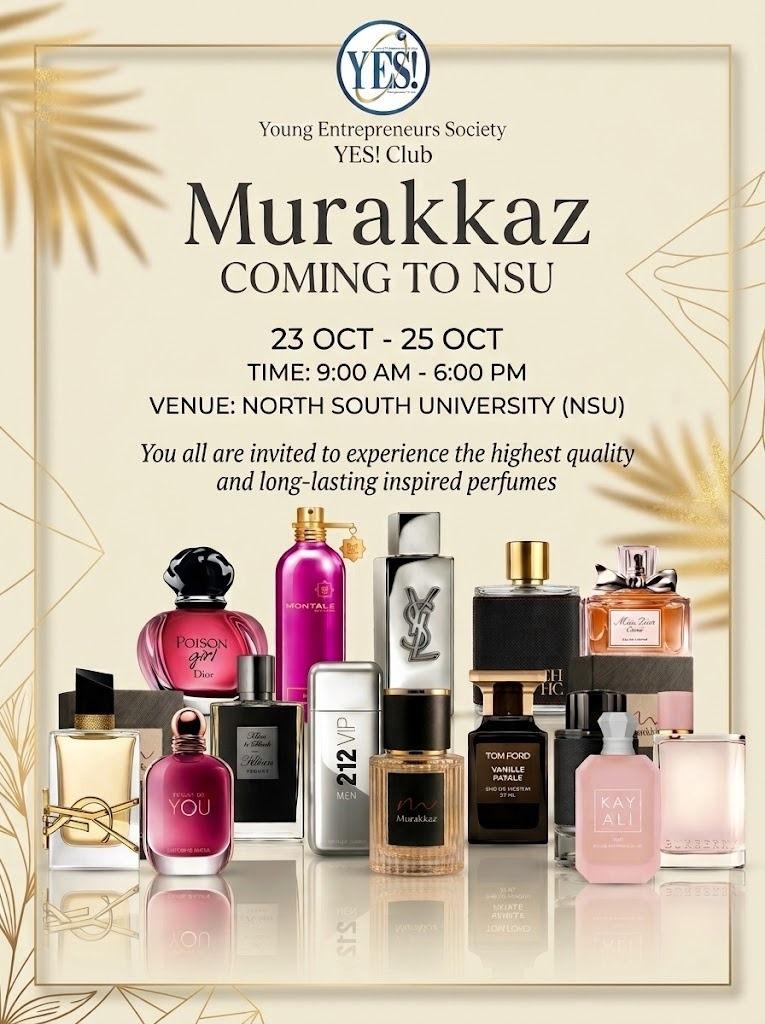
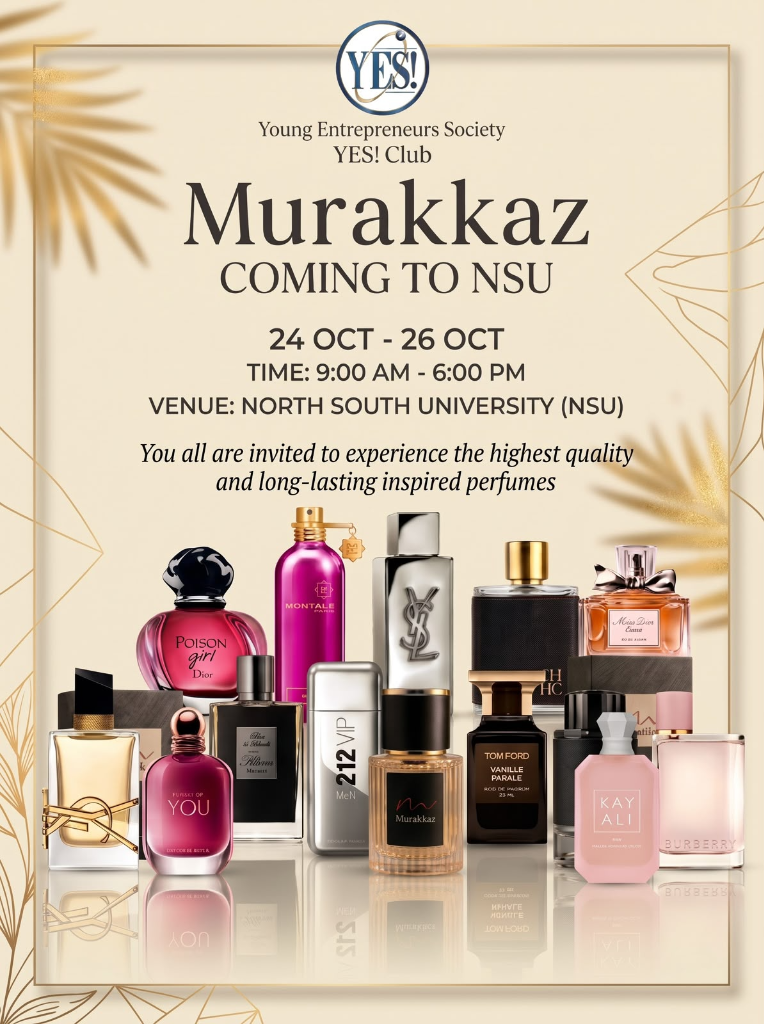
feat(events): update NSU poster to 24-26 Oct and add prominent always-visible slide buttons

diff --git a/App/src/app/events/components/UpcomingEventsSection.tsx b/App/src/app/events/components/UpcomingEventsSection.tsx
@@ -45,11 +45,13 @@ function EventCardImageVisual({
 
   const handleNext = (e: React.MouseEvent) => {
     e.stopPropagation();
+    e.preventDefault();
     setActiveIdx((prev) => (prev < images.length - 1 ? prev + 1 : 0));
   };
 
   const handlePrev = (e: React.MouseEvent) => {
     e.stopPropagation();
+    e.preventDefault();
     setActiveIdx((prev) => (prev > 0 ? prev - 1 : images.length - 1));
   };
 
@@ -116,18 +118,19 @@ function EventCardImageVisual({
         {/* Counter Badge if multiple images */}
         {images.length > 1 && (
           <div className={styles.cardPhotoCounterBadge}>
-            {activeIdx + 1} / {images.length}
+            Photo {activeIdx + 1} of {images.length}
           </div>
         )}
 
-        {/* Previous / Next Arrows on Card */}
+        {/* Previous / Next Slide Buttons on Card */}
         {images.length > 1 && (
           <>
             <button
               type="button"
               className={`${styles.cardArrowBtn} ${styles.cardArrowPrev}`}
               onClick={handlePrev}
-              aria-label="Previous image"
+              aria-label="Previous slide"
+              title="Slide to previous photo"
             >
               ‹
             </button>
@@ -135,7 +138,8 @@ function EventCardImageVisual({
               type="button"
               className={`${styles.cardArrowBtn} ${styles.cardArrowNext}`}
               onClick={handleNext}
-              aria-label="Next image"
+              aria-label="Next slide"
+              title="Slide to next photo"
             >
               ›
             </button>
@@ -163,6 +167,50 @@ function EventCardImageVisual({
         </div>
       </div>
 
+      {/* Slide Navigation Controls */}
+      {images.length > 1 && (
+        <div className={styles.cardSlideControlBar}>
+          <button
+            type="button"
+            className={styles.cardSlideNavBtn}
+            onClick={handlePrev}
+            aria-label="Previous slide"
+            title="Previous photo"
+          >
+            ‹ Prev
+          </button>
+
+          <div className={styles.cardSlideDots}>
+            {images.map((_, i) => (
+              <button
+                key={i}
+                type="button"
+                className={`${styles.cardSlideDot} ${i === activeIdx ? styles.cardSlideDotActive : ""}`}
+                onClick={(e) => {
+                  e.stopPropagation();
+                  e.preventDefault();
+                  setActiveIdx(i);
+                }}
+                aria-label={`Slide to photo ${i + 1}`}
+                title={`Slide to Photo ${i + 1}: ${getEventImageMeta(images[i]).shortLabel}`}
+              >
+                {i + 1}
+              </button>
+            ))}
+          </div>
+
+          <button
+            type="button"
+            className={styles.cardSlideNavBtn}
+            onClick={handleNext}
+            aria-label="Next slide"
+            title="Next photo"
+          >
+            Next ›
+          </button>
+        </div>
+      )}
+
       {/* Mini 3-Thumbnail Preview Selector Strip */}
       {images.length > 1 && (
         <div className={styles.cardThumbnailRow}>
@@ -175,10 +223,11 @@ function EventCardImageVisual({
                 type="button"
                 onClick={(e) => {
                   e.stopPropagation();
+                  e.preventDefault();
                   setActiveIdx(i);
                 }}
                 className={`${styles.cardThumbItem} ${isActive ? styles.cardThumbActive : ""}`}
-                title={meta.shortLabel}
+                title={`Click to view: ${meta.shortLabel}`}
                 aria-label={`View ${meta.shortLabel}`}
               >
                 <Image

diff --git a/App/src/app/data/eventsData.ts b/App/src/app/data/eventsData.ts
@@ -101,7 +101,7 @@ export function getEventImageMeta(src: string, defaultTitle?: string): EventImag
   if (src.includes("nsu") || src.includes("poster") || src.includes("october_2026")) {
     return {
       title: defaultTitle || "Murakkaz Coming to NSU — Exhibition Poster",
-      subtitle: "North South University (NSU) • Oct 23 – 25, 2026",
+      subtitle: "North South University (NSU) • Oct 24 – 26, 2026",
       shortLabel: "Event Poster",
     };
   }
@@ -199,18 +199,18 @@ export const upcomingEvents: UpcomingEvent[] = [
   {
     id: "cmue-nsu-yes-oct-2026",
     slug: "murakkaz-coming-to-nsu-yes-club",
-    day: "23",
+    day: "24",
     month: "OCT",
     title: "Murakkaz Coming to NSU — YES! Club Exhibition",
     location: "North South University (NSU), Bashundhara R/A, Dhaka",
-    daysLeft: "7 days left",
+    daysLeft: "6 days left",
     time: "9:00 AM - 6:00 PM",
-    description: "Murakkaz is coming to North South University (NSU)!\n\nOrganized in collaboration with the Young Entrepreneurs Society (YES! Club), we warmly invite all students, faculty members, and perfume enthusiasts across Dhaka to experience our signature collection of extra pure, long-lasting luxury perfumes.\n\nExplore crowd-favourite masterpieces inspired by world-renowned perfume houses—including Poison Girl, Montale (Arabians Tonka & Roses Musk), YSL Libre & MYSLF, Tom Ford Vanille Fatale, Miss Dior, 212 VIP Men, Kilian, KAYALI, and Burberry Her. Handcrafted with premium, high-concentration fragrance oils to ensure rich projection and all-day longevity.\n\nEnjoy complimentary fragrance testing, personalized scent consultations, and exclusive campus student discounts!\n\nEvent Details:\n• Dates: October 23rd – 25th, 2026\n• Timing: 9:00 AM – 6:00 PM Daily\n• Venue: North South University (NSU), Plot # 15, Block # B, Bashundhara R/A, Dhaka\n• Host / Partner: Young Entrepreneurs Society (YES! Club)\n• Inquiries & Hotline: 01997-807701\n• Official Website: www.murakkaz.com",
+    description: "Murakkaz is coming to North South University (NSU)!\n\nOrganized in collaboration with the Young Entrepreneurs Society (YES! Club), we warmly invite all students, faculty members, and perfume enthusiasts across Dhaka to experience our signature collection of extra pure, long-lasting luxury perfumes.\n\nExplore crowd-favourite masterpieces inspired by world-renowned perfume houses—including Poison Girl, Montale (Arabians Tonka & Roses Musk), YSL Libre & MYSLF, Tom Ford Vanille Fatale, Miss Dior, 212 VIP Men, Kilian, KAYALI, and Burberry Her. Handcrafted with premium, high-concentration fragrance oils to ensure rich projection and all-day longevity.\n\nEnjoy complimentary fragrance testing, personalized scent consultations, and exclusive campus student discounts!\n\nEvent Details:\n• Dates: October 24th – 26th, 2026\n• Timing: 9:00 AM – 6:00 PM Daily\n• Venue: North South University (NSU), Plot # 15, Block # B, Bashundhara R/A, Dhaka\n• Host / Partner: Young Entrepreneurs Society (YES! Club)\n• Inquiries & Hotline: 01997-807701\n• Official Website: www.murakkaz.com",
     image: "/images/events/murakkaz_nsu_yes_october_2026.png",
     images: [
       "/images/events/murakkaz_nsu_yes_october_2026.png",
-      "/images/events/nsu_mou_agreement.png",
       "/images/events/nsu_booth_proposal.png",
+      "/images/events/nsu_mou_agreement.png",
     ],
   },
   {

diff --git a/App/src/app/events/page.module.css b/App/src/app/events/page.module.css
@@ -1870,42 +1870,118 @@
   position: absolute;
   top: 50%;
   transform: translateY(-50%);
-  width: 30px;
-  height: 30px;
+  width: 36px;
+  height: 36px;
   border-radius: 50%;
-  background: rgba(18, 16, 14, 0.85);
-  backdrop-filter: blur(6px);
-  -webkit-backdrop-filter: blur(6px);
-  border: 1px solid rgba(255, 255, 255, 0.3);
+  background: rgba(18, 16, 14, 0.9);
+  backdrop-filter: blur(8px);
+  -webkit-backdrop-filter: blur(8px);
+  border: 1.5px solid rgba(197, 168, 128, 0.75);
   color: #FAF6F0;
-  font-size: 1.25rem;
+  font-size: 1.4rem;
+  font-weight: 600;
   line-height: 1;
   display: flex;
   align-items: center;
   justify-content: center;
   cursor: pointer;
-  z-index: 4;
-  opacity: 0;
-  transition: all 0.25s ease;
+  z-index: 10;
+  opacity: 0.95;
+  transition: all 0.25s cubic-bezier(0.16, 1, 0.3, 1);
   user-select: none;
-}
-
-.exactColImageWrap:hover .cardArrowBtn {
-  opacity: 1;
+  box-shadow: 0 4px 12px rgba(0, 0, 0, 0.5);
 }
 
 .cardArrowBtn:hover {
   background: #820011;
-  border-color: rgba(255, 255, 255, 0.6);
-  transform: translateY(-50%) scale(1.1);
+  border-color: #FAF6F0;
+  transform: translateY(-50%) scale(1.15);
+  opacity: 1;
+  box-shadow: 0 6px 16px rgba(130, 0, 17, 0.5);
 }
 
 .cardArrowPrev {
-  left: 0.45rem;
+  left: 0.5rem;
 }
 
 .cardArrowNext {
-  right: 0.45rem;
+  right: 0.5rem;
+}
+
+/* Dedicated Slide Control Bar */
+.cardSlideControlBar {
+  display: flex;
+  align-items: center;
+  justify-content: space-between;
+  width: 100%;
+  padding: 0.2rem 0;
+  gap: 0.4rem;
+}
+
+.cardSlideNavBtn {
+  display: inline-flex;
+  align-items: center;
+  justify-content: center;
+  gap: 0.25rem;
+  padding: 0.35rem 0.65rem;
+  font-family: var(--font-serif-text), Georgia, serif;
+  font-size: 0.74rem;
+  font-weight: 500;
+  letter-spacing: 0.04em;
+  color: #FAF6F0;
+  background: rgba(22, 19, 16, 0.9);
+  border: 1px solid rgba(197, 168, 128, 0.55);
+  border-radius: 6px;
+  cursor: pointer;
+  transition: all 0.2s ease;
+  user-select: none;
+  box-shadow: 0 2px 6px rgba(0, 0, 0, 0.25);
+}
+
+.cardSlideNavBtn:hover {
+  background: #820011;
+  border-color: rgba(255, 255, 255, 0.7);
+  color: #FFFFFF;
+  transform: translateY(-1px);
+}
+
+.cardSlideDots {
+  display: flex;
+  align-items: center;
+  justify-content: center;
+  gap: 0.35rem;
+}
+
+.cardSlideDot {
+  display: flex;
+  align-items: center;
+  justify-content: center;
+  width: 24px;
+  height: 24px;
+  border-radius: 50%;
+  font-family: var(--font-serif-text), Georgia, serif;
+  font-size: 0.72rem;
+  font-weight: 600;
+  color: #C5BAAD;
+  background: rgba(30, 26, 23, 0.8);
+  border: 1px solid rgba(197, 168, 128, 0.35);
+  cursor: pointer;
+  transition: all 0.2s ease;
+}
+
+.cardSlideDot:hover {
+  color: #FAF6F0;
+  border-color: rgba(197, 168, 128, 0.85);
+  transform: scale(1.08);
+}
+
+.cardSlideDotActive {
+  color: #12100E !important;
+  background: #C5A880 !important;
+  border-color: #FAF6F0 !important;
+  box-shadow: 0 0 8px rgba(197, 168, 128, 0.6);
+  font-weight: 700 !important;
+  transform: scale(1.1);
 }
 
 .cardThumbnailRow {

diff --git a/Backend/scripts/upsert_nsu_event.js b/Backend/scripts/upsert_nsu_event.js
@@ -14,19 +14,19 @@ Discover signature inspired masterpieces including Poison Girl, Montale (Arabian
 Enjoy complimentary fragrance testing, personal scent consultations, and exclusive campus student discounts!
 
 Event Details:
-• Dates: October 23rd – 25th, 2026
+• Dates: October 24th – 26th, 2026
 • Timing: 9:00 AM – 6:00 PM Daily
 • Venue: North South University (NSU), Plot # 15, Block # B, Bashundhara R/A, Dhaka
 • Partner: Young Entrepreneurs Society (YES! Club)
 • Inquiries & Hotline: 01997-807701
 • Official Website: www.murakkaz.com`,
     image: '/images/events/murakkaz_nsu_yes_october_2026.png',
-    day: '23',
+    day: '24',
     month: 'OCT',
     time: '9:00 AM - 6:00 PM',
     location: 'North South University (NSU), Bashundhara R/A, Dhaka',
-    daysLeft: 7,
-    eventDate: new Date('2026-10-23T09:00:00.000Z'),
+    daysLeft: 6,
+    eventDate: new Date('2026-10-24T09:00:00.000Z'),
     category: 'Campus Exhibition',
     isUpcoming: true,
   };
@@ -50,17 +50,17 @@ Event Details:
       {
         eventId: event.id,
         src: '/images/events/murakkaz_nsu_yes_october_2026.png',
-        alt: 'Murakkaz Coming to NSU — Event Poster',
-      },
-      {
-        eventId: event.id,
-        src: '/images/events/nsu_mou_agreement.png',
-        alt: 'Memorandum of Understanding (MoU) — Signed Partnership Agreement',
+        alt: 'Murakkaz Coming to NSU — Event Poster (24-26 Oct)',
       },
       {
         eventId: event.id,
         src: '/images/events/nsu_booth_proposal.png',
         alt: 'YES! Booth Partnership Proposal',
+      },
+      {
+        eventId: event.id,
+        src: '/images/events/nsu_mou_agreement.png',
+        alt: 'Memorandum of Understanding (MoU) — Signed Partnership Agreement',
       },
     ],
   });

diff --git a/App/src/app/components/homepage.module.css b/App/src/app/components/homepage.module.css
@@ -870,34 +870,33 @@
   position: absolute;
   top: 50%;
   transform: translateY(-50%);
-  width: 28px;
-  height: 28px;
+  width: 32px;
+  height: 32px;
   border-radius: 50%;
-  background: rgba(18, 16, 14, 0.8);
-  backdrop-filter: blur(4px);
-  -webkit-backdrop-filter: blur(4px);
-  border: 1px solid rgba(255, 255, 255, 0.3);
+  background: rgba(18, 16, 14, 0.88);
+  backdrop-filter: blur(6px);
+  -webkit-backdrop-filter: blur(6px);
+  border: 1.5px solid rgba(197, 168, 128, 0.75);
   color: #FAF6F0;
-  font-size: 1.15rem;
+  font-size: 1.3rem;
+  font-weight: 600;
   line-height: 1;
   display: flex;
   align-items: center;
   justify-content: center;
   cursor: pointer;
-  z-index: 4;
-  opacity: 0;
+  z-index: 10;
+  opacity: 0.92;
   transition: all 0.25s ease;
   user-select: none;
-}
-
-.eventImageWrap:hover .homeArrowBtn {
-  opacity: 1;
+  box-shadow: 0 4px 10px rgba(0, 0, 0, 0.4);
 }
 
 .homeArrowBtn:hover {
   background: #820011;
-  border-color: rgba(255, 255, 255, 0.6);
-  transform: translateY(-50%) scale(1.1);
+  border-color: #FAF6F0;
+  transform: translateY(-50%) scale(1.12);
+  opacity: 1;
 }
 
 .homeArrowPrev {
